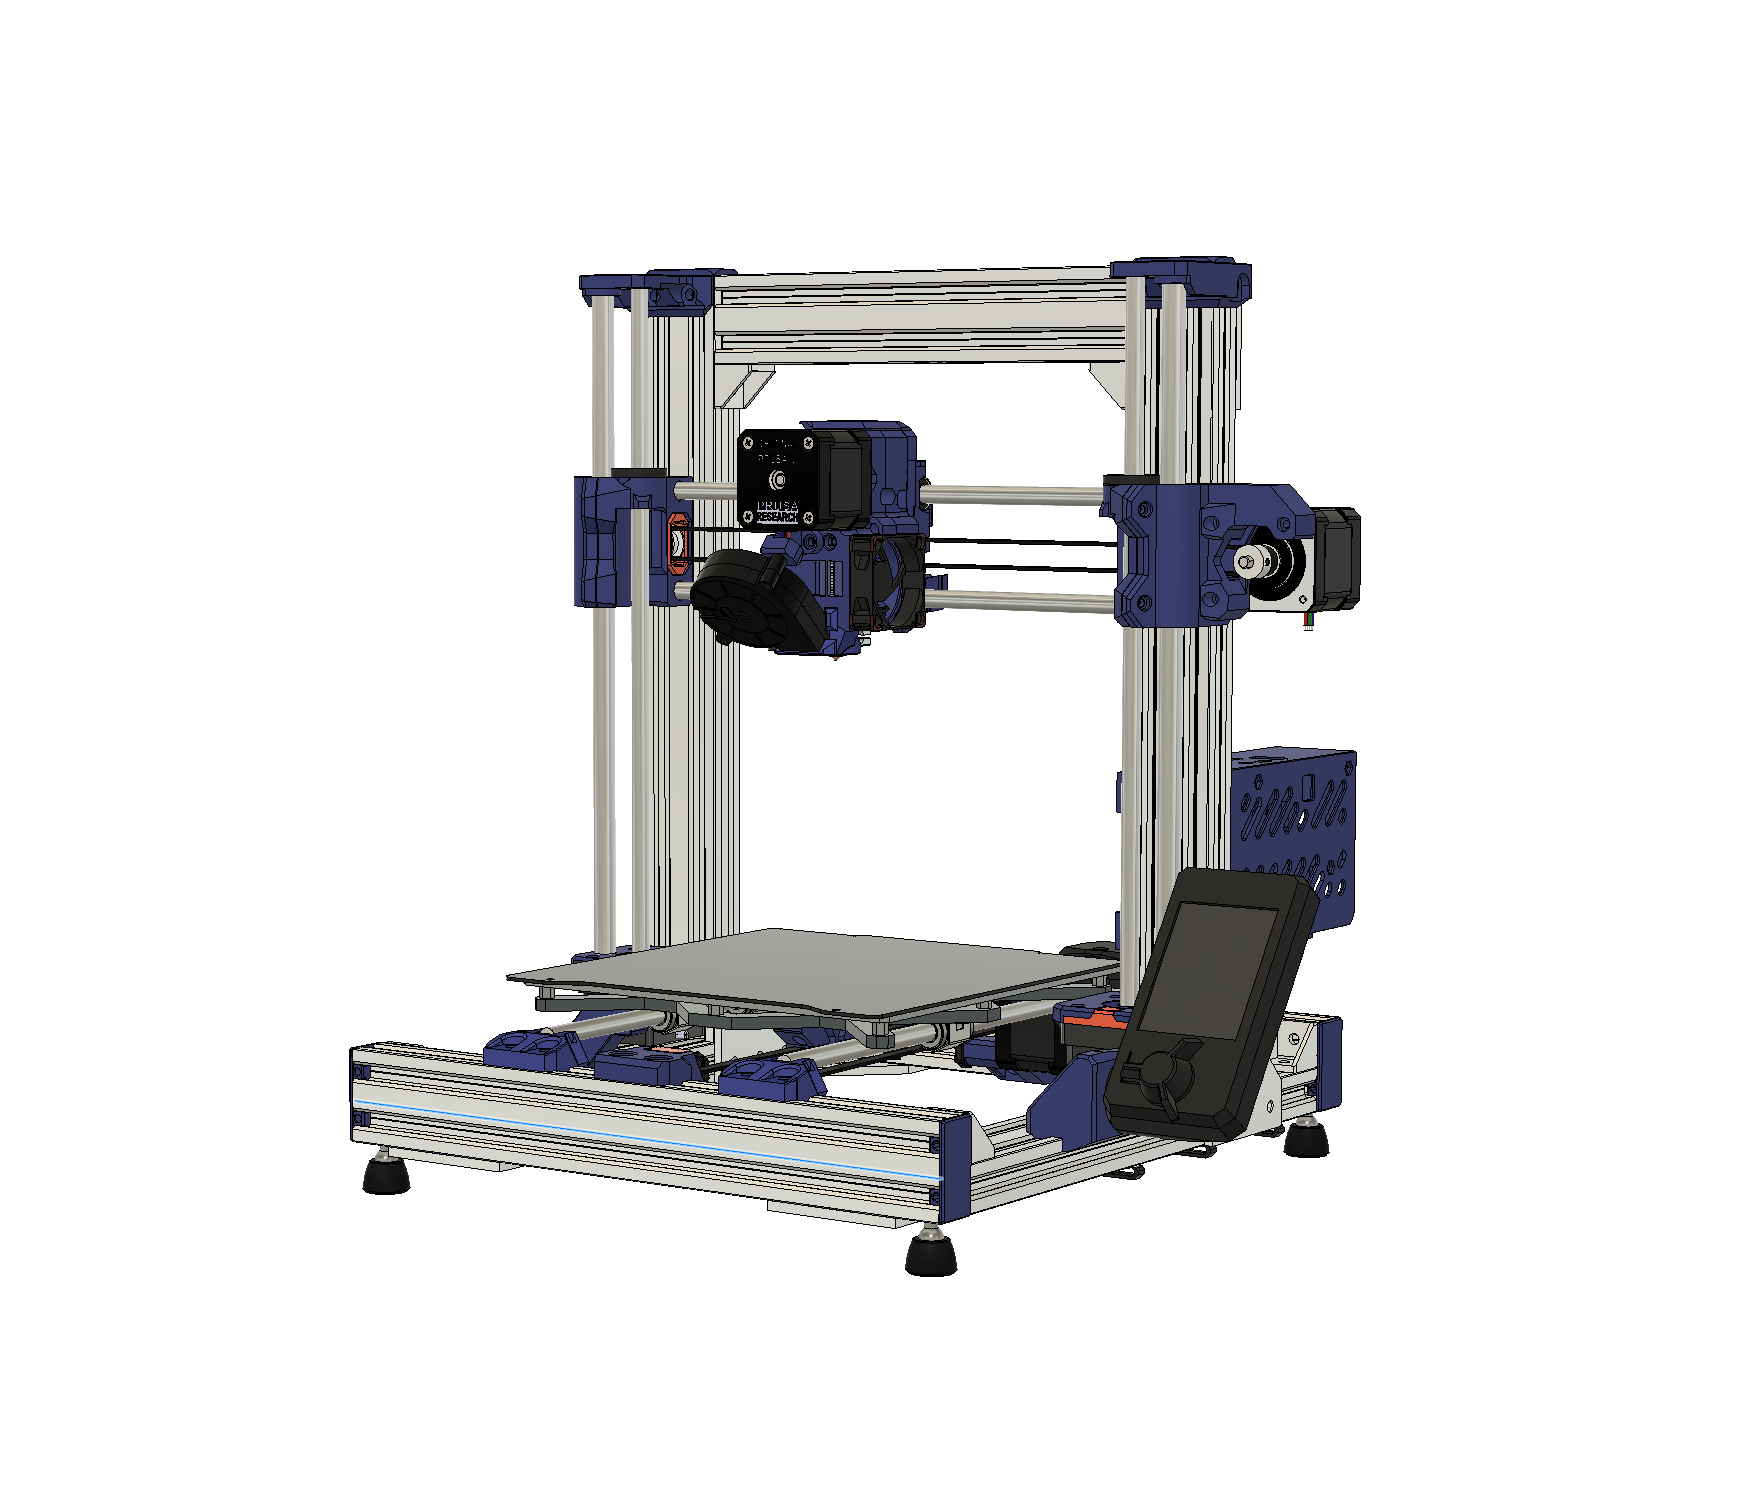
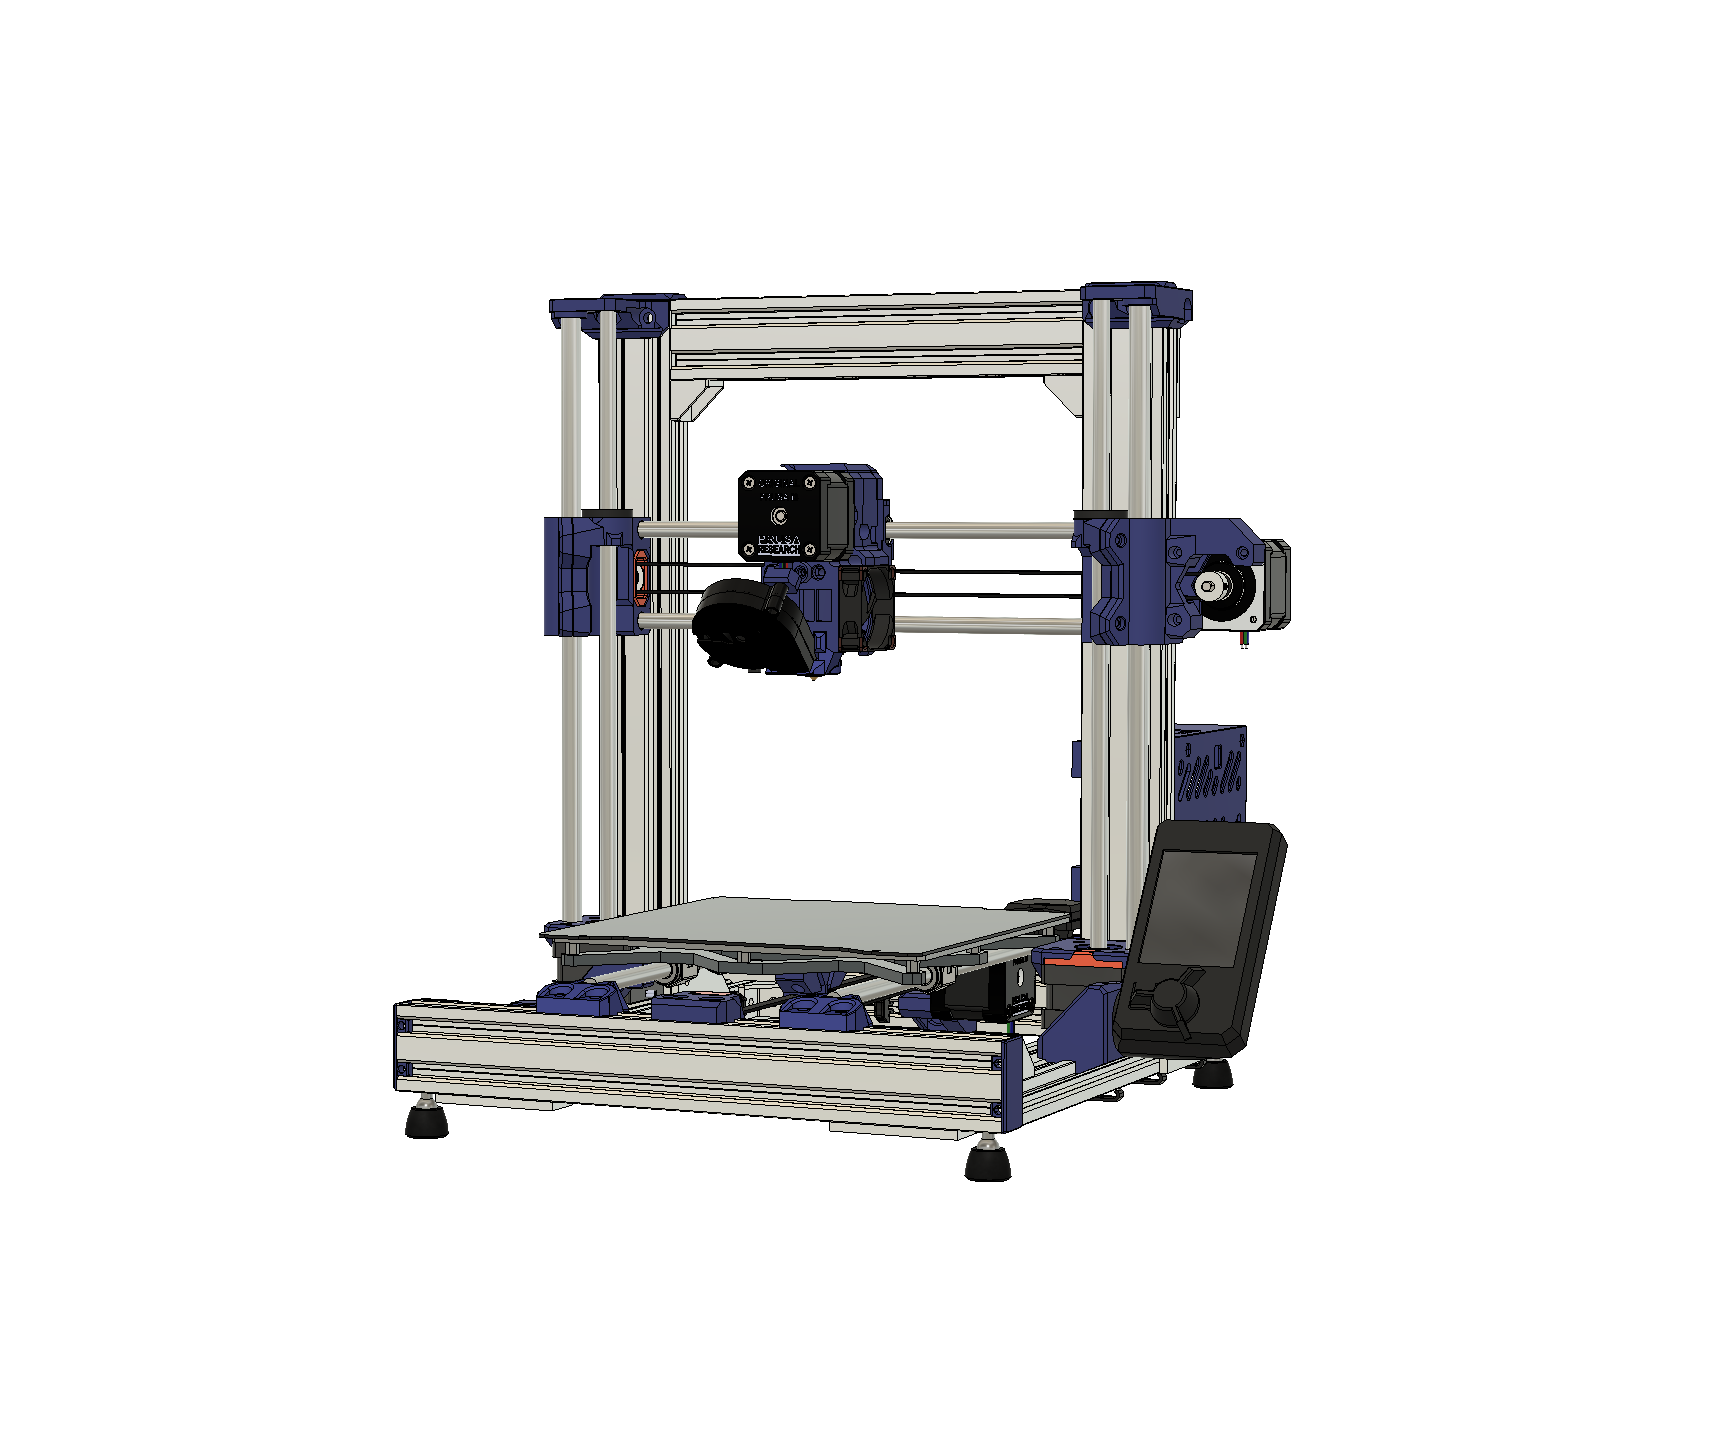
Changelog update, added pictures

Changed region(s): [[0.1872, 0.1532, 0.7799, 0.8579]]

diff --git a/CHANGELOG.md b/CHANGELOG.md
@@ -1,5 +1,9 @@
 # Change Log
 
+## [v0.31] - 29/03/2023
+### Changed
+- Reduced and rounded Z rod length. Total axis travel possible is 206mm. Albeit, without changing the firmware max travel is set at 180mm from the bed surface.
+
 ## [v0.3] - 27/03/2023
 ### Changed
 Realized that MK3S and Prusa MINI use different leadscrew specifications, hence gregsaun's leadscrew caps are not compatible with this mod. 
